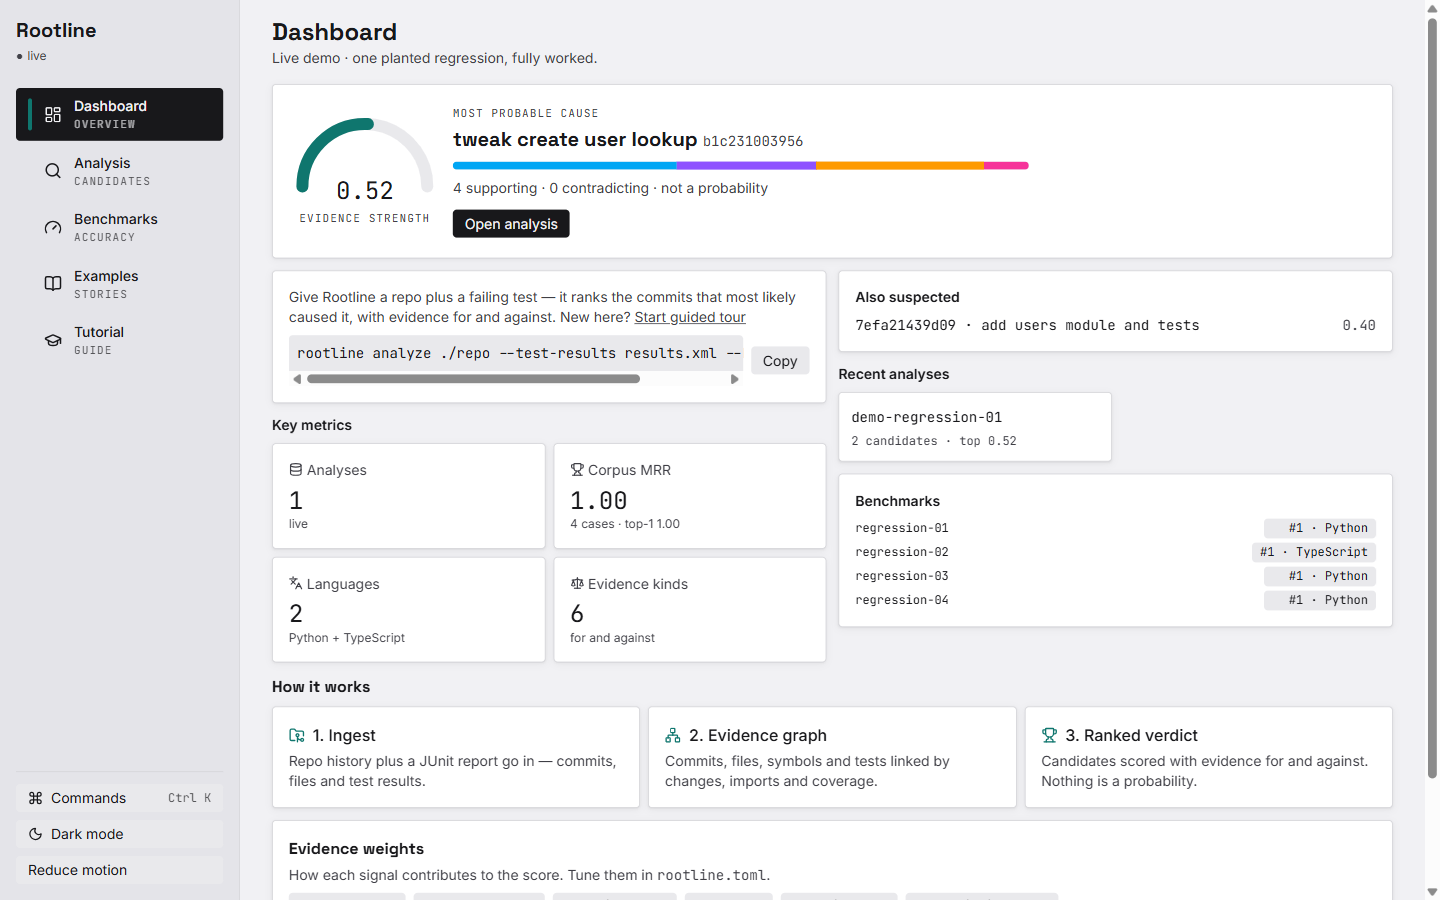
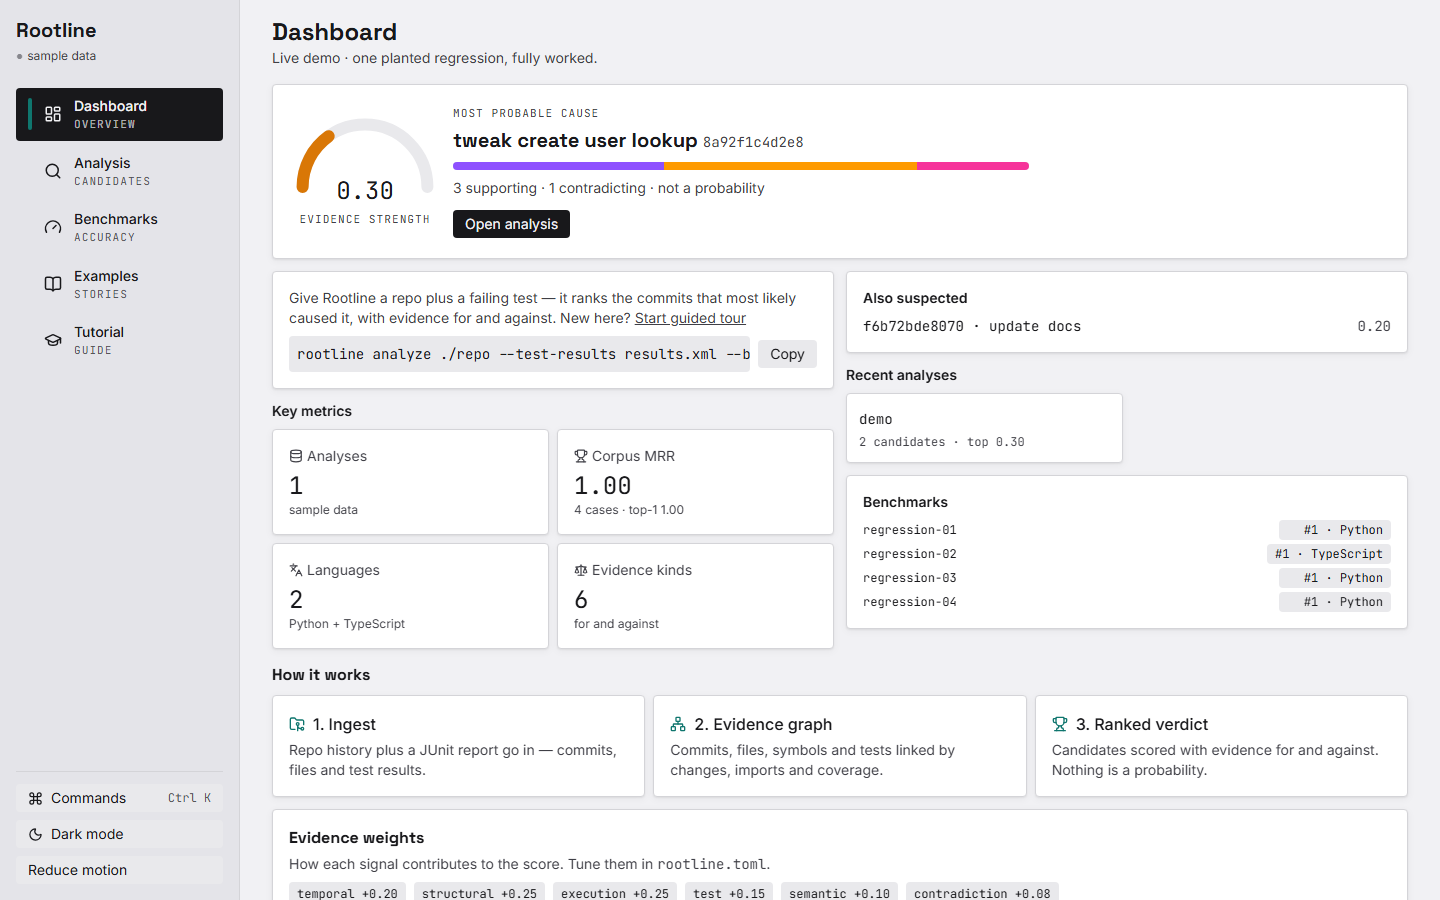
docs: refresh screenshots and post-React Flow copy
Retake dashboard and graph screenshots with the React Flow UI. Drop Cytoscape references, complete the CLI command list, describe trace/search/export in the graph caption.

diff --git a/README.md b/README.md
@@ -22,7 +22,7 @@ contradictory evidence — fully local, no paid services.
 </figure>
 <figure>
   <img src="assets/screenshot-graph.png" alt="Rootline evidence graph explorer with commit, file, symbol and test nodes" width="100%" />
-  <figcaption><strong>Evidence graph explorer:</strong> commits, files, symbols and tests linked by changes, imports and coverage — filterable by node type.</figcaption>
+  <figcaption><strong>Evidence graph explorer:</strong> commits, files, symbols and tests linked by changes, test outcomes, coverage and dependencies — with causal-path trace, smart search and PNG export.</figcaption>
 </figure>
 
 </div>
@@ -92,8 +92,11 @@ Requires Python 3.13+ and a git binary. No accounts, no paid services.
 ```bash
 rootline init                                  # sample rootline.toml weights
 rootline analyze                               # one-command investigation (UC-01)
+rootline commits                               # commits in the analysis window
+rootline graph                                 # evidence-graph stats by kind
 rootline candidates analysis.json              # ranked table
 rootline explain analysis.json                 # evidence for and against
+rootline export analysis.json                  # portable analysis bundle
 rootline report analysis.json -o report.html   # offline shareable report
 rootline verify <sha> --test <failing-test>    # revert in a throwaway worktree
 rootline blast-radius <sha>                    # what a commit affects
@@ -160,7 +163,7 @@ Repository
 ```text
 rootline/
 ├── apps/api/          # FastAPI service (uv workspace member)
-├── apps/web/          # React + Vite + Cytoscape.js dashboard
+├── apps/web/          # React + Vite + React Flow dashboard
 ├── workers/api/       # Cloudflare Python Worker demo (KV-backed, read-only)
 ├── packages/core/     # Evidence graph, ranking, corpus, calibration
 ├── packages/cli/      # Typer CLI (12 commands)

diff --git a/apps/web/README.md b/apps/web/README.md
@@ -1,6 +1,5 @@
-# Rootline Web (Phase 3)
+# Rootline Web
 
-React + Vite + TypeScript + Cytoscape.js graph explorer.
-
-Placeholder in P0: no source yet. The offline `report.html` (FR-011)
-ships before this dashboard.
+React + Vite + TypeScript dashboard: ranked candidates, evidence graph
+explorer (React Flow + dagre), timeline, treemap, benchmarks, guided tour
+and tutorial. Deploys to Cloudflare Pages.
